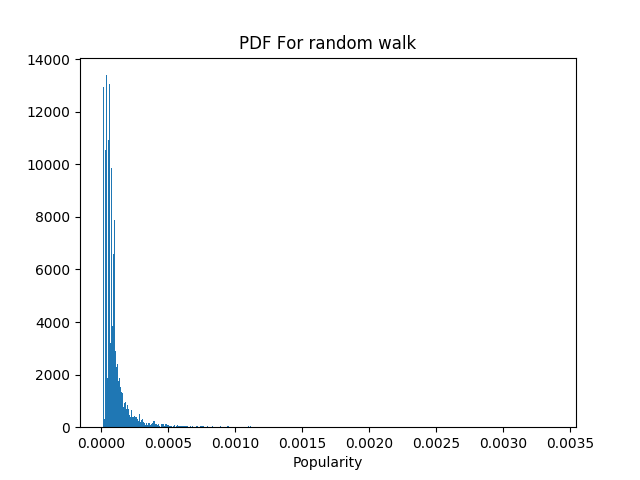
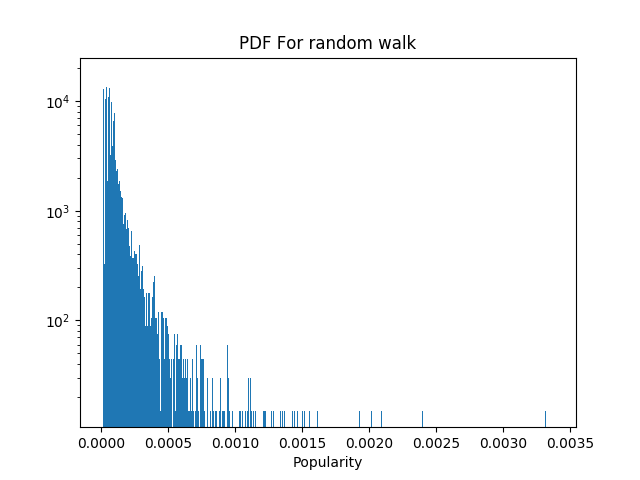
updated figures to log-scale

diff --git a/src/visualize/PlotDistributions.py b/src/visualize/PlotDistributions.py
@@ -73,30 +73,34 @@ def make_histograms():
     BASE_DIR = ROOT_PATH + "reports/figures/"
 
     # True distribution
+    Y_MAX = 25000
     dists = read_true_distribution_file()
-    plt.hist(dists, bins=500, density=True)
+    plt.hist(dists, bins=500, density=True, log=True)
     plt.title("PDF For full graph")
     plt.xlabel("Popularity")
+    plt.ylim(0, Y_MAX)
     # plt.ylabel("P[Popularity = x]")
     plt.savefig(BASE_DIR + "dist_true_fullgraph.png")
-    plt.clf()
+    plt.close()
 
     # Random walk distribution
     dists = read_subsampled_true_distribution_file()
-    plt.hist(dists, bins=500, density=True)
+    plt.hist(dists, bins=500, density=True, log=True)
     plt.title("PDF For subsampled graph")
     plt.xlabel("Popularity")
+    plt.ylim(0, Y_MAX)
     # plt.ylabel("P[Popularity = x]")
     plt.savefig(BASE_DIR + "dist_true_sampled.png")
-    plt.clf()
+    plt.close()
 
     dists = read_subsampled_results_file("data/results/sampled_random_walk_10mil.csv")
-    plt.hist(dists, bins=500, density=True)
+    plt.hist(dists, bins=500, density=True, log=True)
     plt.title("PDF For random walk")
     plt.xlabel("Popularity")
+    plt.ylim(0, Y_MAX)
     # plt.ylabel("P[Popularity = x]")
     plt.savefig(BASE_DIR + "dist_rw_sampled.png")
-    plt.clf()
+    plt.close()
 
 
     # Principal eigenvector (as a validation) distribution

diff --git a/src/graph/Graph.py b/src/graph/Graph.py
@@ -3,7 +3,7 @@ import networkx as nx
 import pandas as pd
 import random
 import graph.SubsampleGraph as sg
-from tqdm import tqdm
+# from tqdm import tqdm
 
 # This works for MacOS
 ROOT_PATH = "../"
